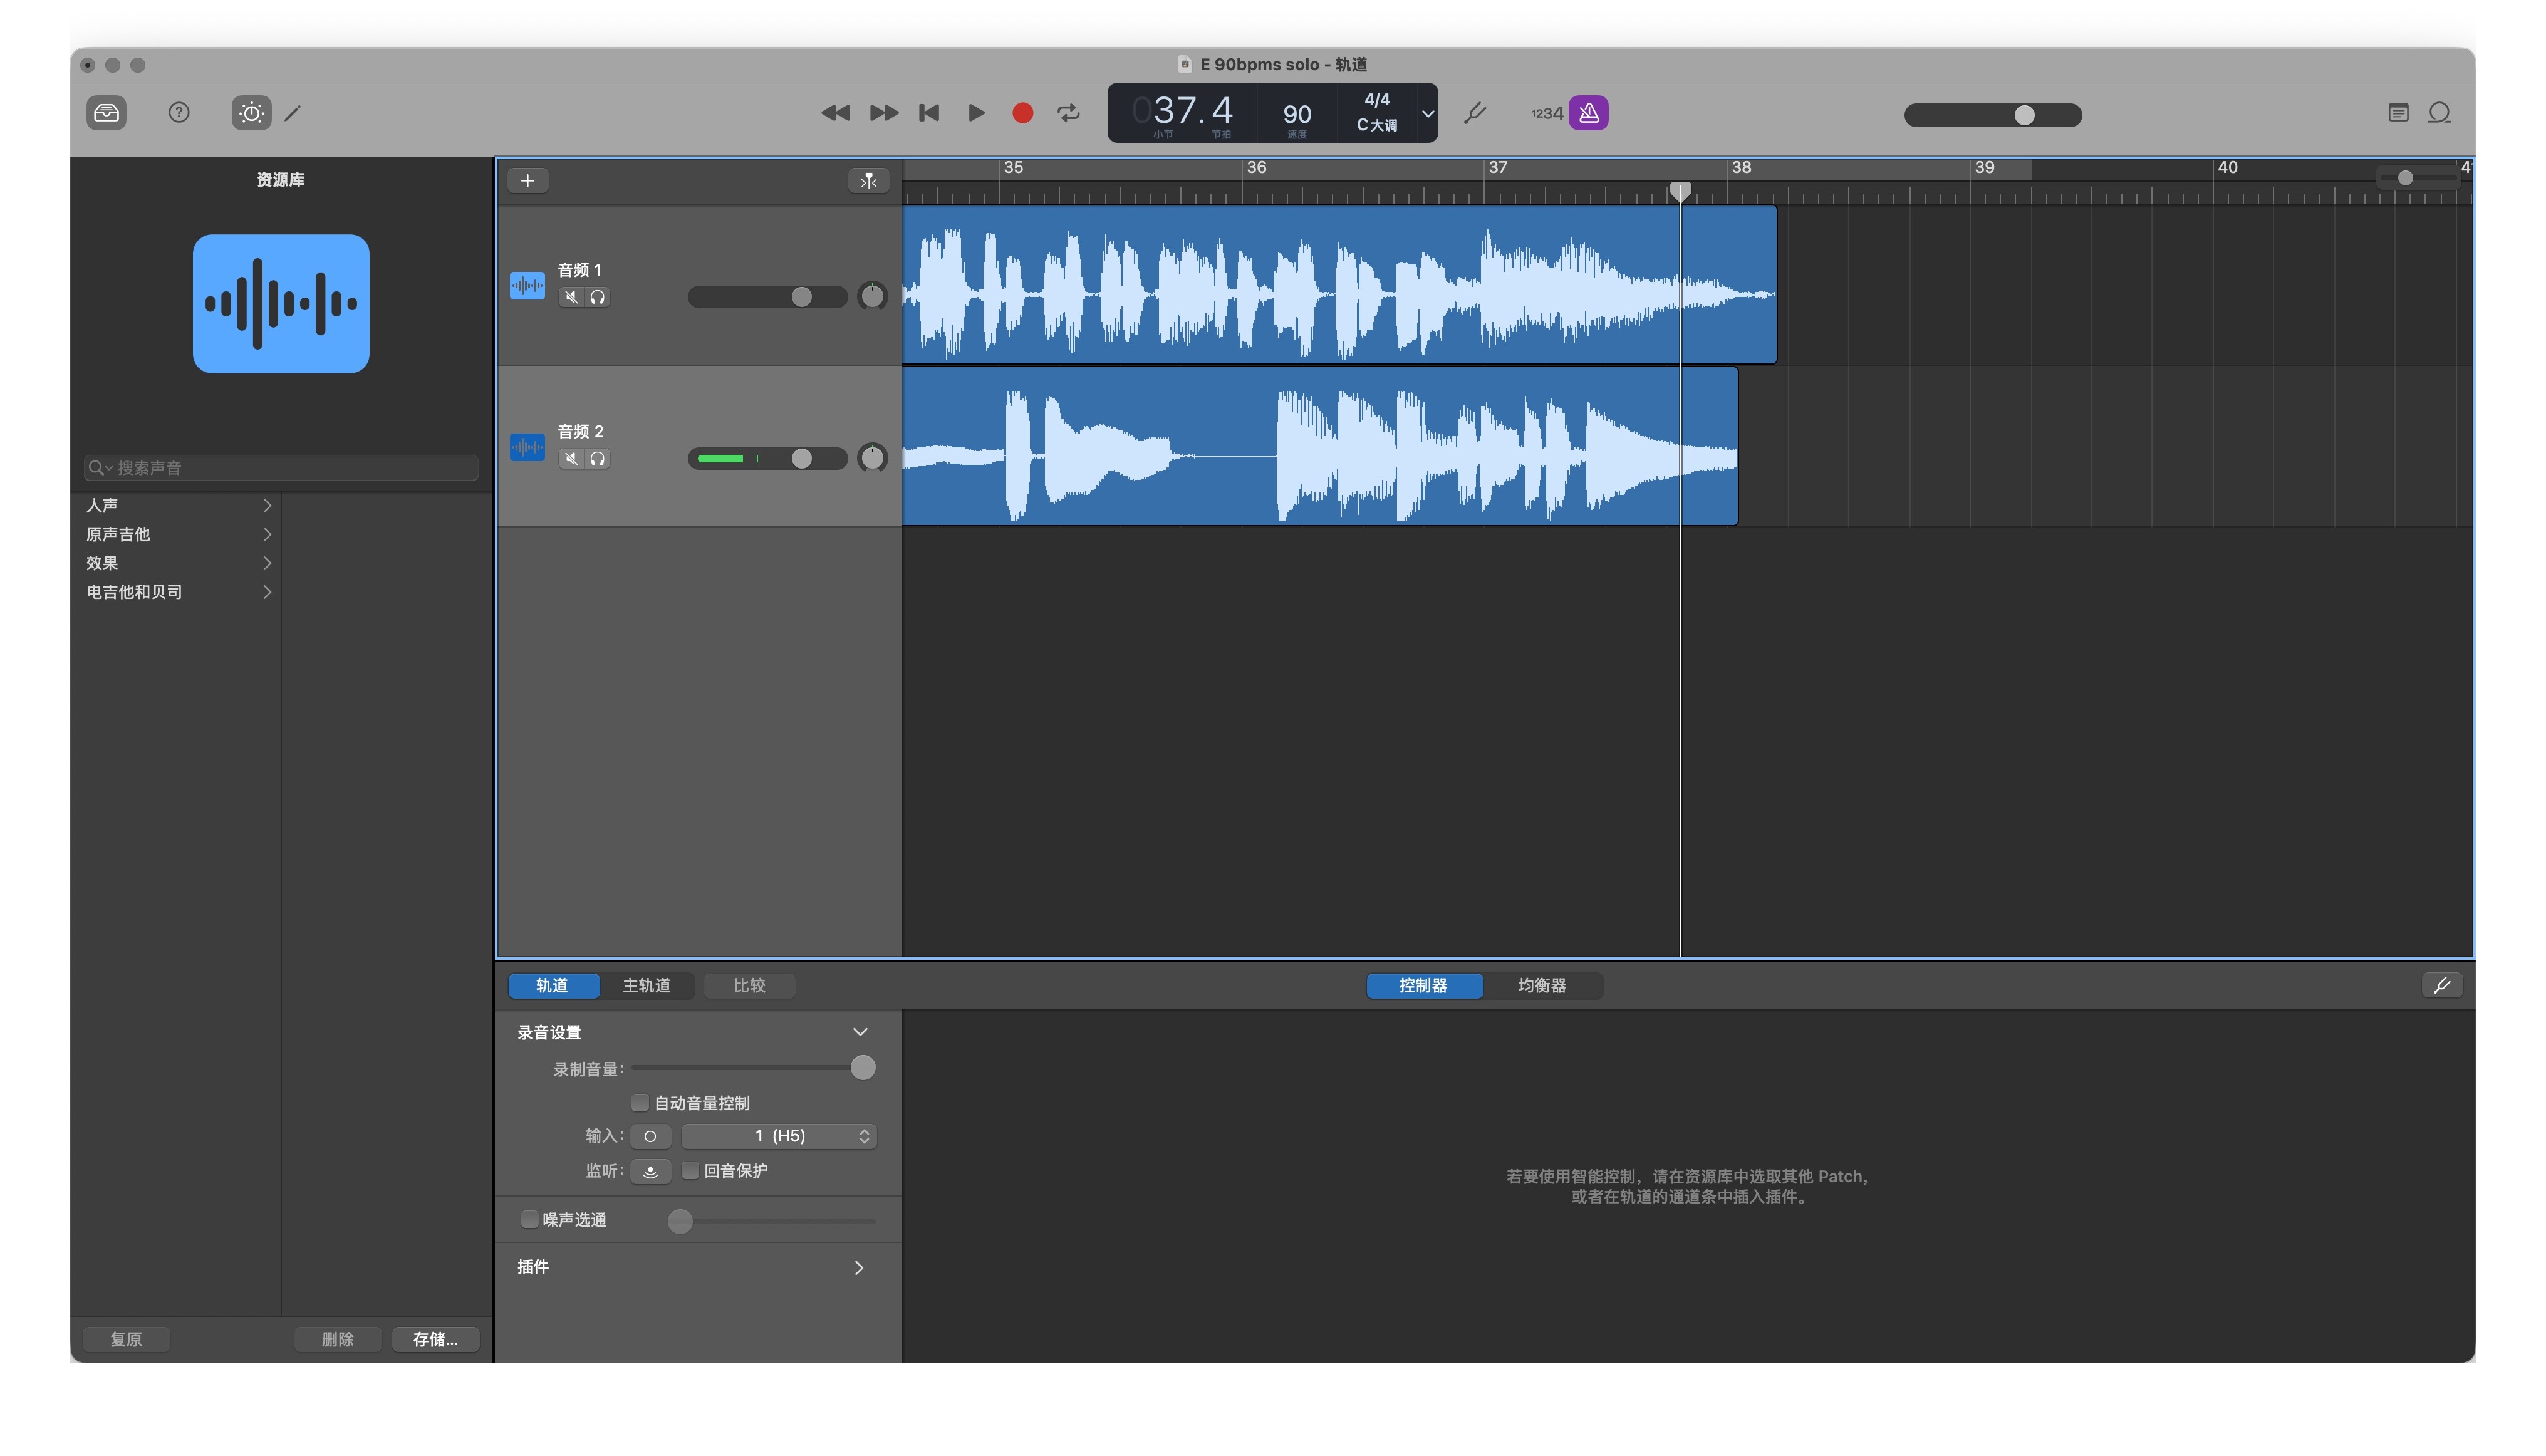
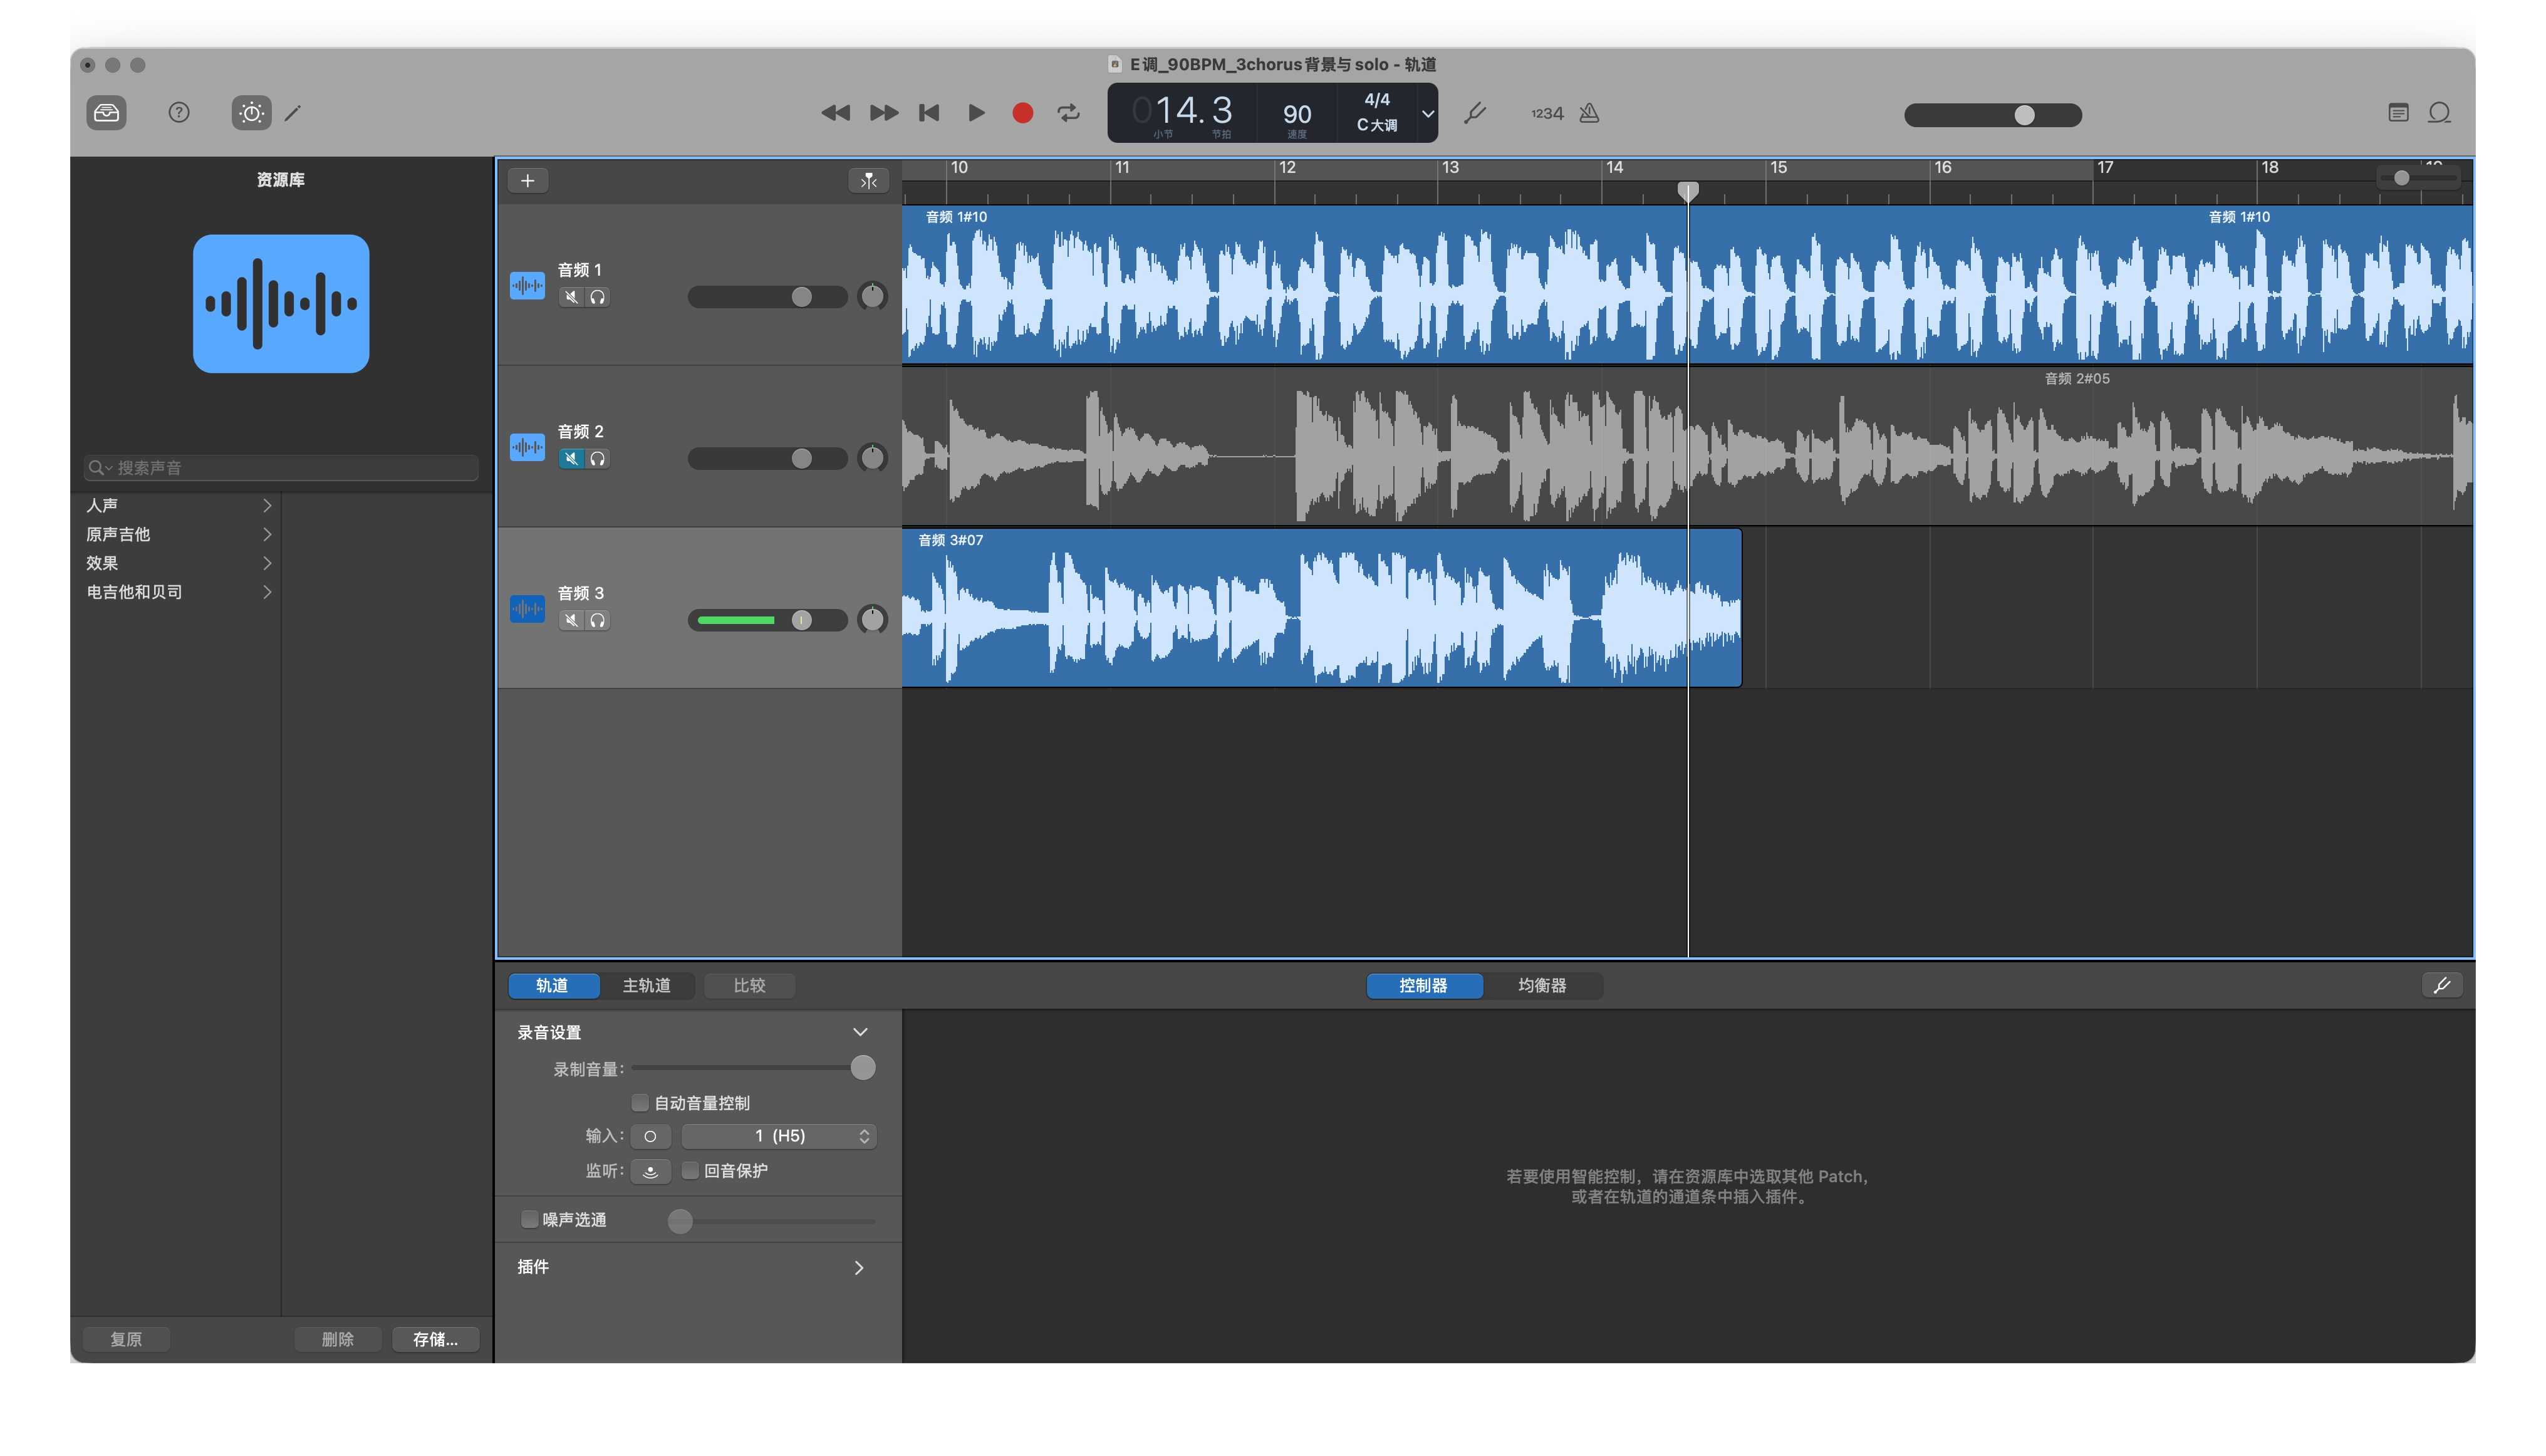
training: archive E phrasing revision

Changed region(s): [[0.1875, 0.0929, 0.9688, 0.4957], [0.4375, 0.031, 0.5625, 0.0929], [0.5938, 0.062, 0.6562, 0.0929]]

diff --git a/日志/2026-06-29_D1.md b/日志/2026-06-29_D1.md
@@ -2,7 +2,7 @@
 
 日期：2026-06-29
 
-本次时长：待回报；导出录音 `3:59.31`；新增练习成品 `0:38.69`；新增可编辑工程约 `1:41.33`
+本次时长：待回报；导出录音 `3:59.31`；新增练习成品 `0:38.69`；新增可编辑工程约 `1:41.33`；新增修正版导出 `1:39.63`
 
 唯一重点：《Before You Accuse Me》中回答句的尾音要说明所在和弦，回到节奏时 pulse 不断
 
@@ -29,6 +29,8 @@
 - 工程事实：已归档可编辑 GarageBand 工程，含 E 伴奏和两条 solo；用户说明其中一条已静音，为三句原曲回答；第二条为 E7 / A7 / B7 三个回答版本，可作为以后 solo 资源
 - 新增工程证据：已归档 [E 调 `90 BPM` 3 chorus 背景与 solo 工程](../工程/E调_90BPM_3chorus背景与solo.band)；包内 2 条 WAV，均为 `101.33s`，标记 `90.0 BPM`；用户自评为“3 chorus 的 E 调 background，然后 solo，运用了《Before You Accuse Me》里的句子”
 - 一项最影响听感的问题：用户自评部分句子听起来机械化，部分不太对节奏；尚未实际回听演奏质量，因此先记录为自评问题，不下音准或 groove 结论
+- 新增修正证据：已归档 [E 调 `90 BPM` 语气修正版](../录音/2026-06-29_W27_D1_BeforeYouAccuseMe语气修正版_E_90BPM.mp3)，MP3 `99.63s`，44.1 kHz，192 kbps，立体声；工程内新增一条 `37.33s` solo WAV，标记 `90.0 BPM`
+- 修正结果：用户自评“录制了一条修正版 `1 chorus` solo，听起来舒服多了”；尚未实际回听，因此记录为用户自评，不作为老师听感结论
 
 ## 录音
 
@@ -50,8 +52,16 @@
 
 对应工程：[E调_90BPM_3chorus背景与solo.band](../工程/E调_90BPM_3chorus背景与solo.band)
 
+文件或链接：[Before You Accuse Me 语气修正版](../录音/2026-06-29_W27_D1_BeforeYouAccuseMe语气修正版_E_90BPM.mp3)
+
+类型：练习成品
+
+时长 / 格式：`1:39.63`，MP3，44.1 kHz，192 kbps，立体声
+
+是否一次录完 / 是否剪辑：待确认；用户自评听起来舒服多了
+
 ## 下一次
 
-只改什么：不再增加新的快句；沿用已录 solo 的音高素材，只改变进入拍点、留白和尾音长度
+只改什么：保留修正版里更舒服的进入拍点、留白和尾音长度；不为了完整曲目再新增快句
 
-下一条音乐产出：E 调 `1 chorus` 节奏语气修正版；让回答句像接在人声后面的回应，而不是机械地贴在小节线上
+下一条音乐产出：《Before You Accuse Me》第一次完整曲目骨架录音：前奏 / 节奏 -> `1 chorus` solo -> 回节奏 -> ending；重点是 lead 后回到 rhythm 时 pulse 不断

diff --git a/README.md b/README.md
@@ -16,21 +16,22 @@
 - 6 月 29 日已归档《Before You Accuse Me》E7 / A7 / B7 回答变化练习成品；用户自评个人觉得还行，尚未实际回听演奏质量，是否一次录完待确认。
 - 新增可复用工程：[BeforeYouAccuseMe_E调回答变化](./工程/BeforeYouAccuseMe_E调回答变化.band)，含 E 伴奏和两条 solo，可作为后续 E 调 solo 资源。
 - 6 月 29 日已归档 [E 调 `90 BPM` 3 chorus 背景与 solo 工程](./工程/E调_90BPM_3chorus背景与solo.band)；用户自评使用了《Before You Accuse Me》句子，但部分机械、部分节奏不准；记录为“完成，尚待稳定”，未实际回听评价。
+- 6 月 29 日已归档 [《Before You Accuse Me》E 调 `90 BPM` 语气修正版](./录音/2026-06-29_W27_D1_BeforeYouAccuseMe语气修正版_E_90BPM.mp3)；用户自评 `1 chorus` solo 听起来舒服多了，尚未实际回听评价。
 - 今日入口：[2026-06-29 D1 练习日志](./日志/2026-06-29_D1.md)。
 
 本地参考：[B.B. King - How Blue Can You Get?（Live At The Regal）](./曲目/参考素材/BB_King-How_Blue_Can_You_Get-Live_At_The_Regal.mp3)
 本周主攻素材：[Eric Clapton - Before You Accuse Me `Unplugged`](./曲目/参考素材/Eric_Clapton-Before_You_Accuse_Me-Unplugged_yt_416wa6CHs04.mp3)，来源：[YouTube](https://www.youtube.com/watch?v=416wa6CHs04)
 
-> 当前唯一重点：让《Before You Accuse Me》的回答句从“小节格子”里出来，靠进入拍点、留白和尾音长度形成接话感。
+> 当前唯一重点：保留修正版里更自然的接话感，把它放回完整曲目骨架；lead 之后回到 rhythm 时 pulse 不断。
 
 ## 下一次 25–30 分钟任务
 
-1. 打开 [E 调 `90 BPM` 3 chorus 背景与 solo 工程](./工程/E调_90BPM_3chorus背景与solo.band)，先听自己最机械的一处，不改音高。
-2. 只重录 `1 chorus` 修正版：每个回答句前至少留半拍或一拍空气；每个句尾至少有一个音拉长或提前停住。
-3. 允许引用《Before You Accuse Me》句子，但每个 chorus 最多放 2 个引用；其余用节奏呼吸连接，不用新快句填满。
-4. 正式录音一遍，中途不停；如果有一处节奏不准，下一句用留白找回 pulse。
+1. 打开 [E 调 `90 BPM` 3 chorus 背景与 solo 工程](./工程/E调_90BPM_3chorus背景与solo.band)，保留语气修正版中更舒服的进入拍点和句尾处理。
+2. 录《Before You Accuse Me》第一次完整曲目骨架：前奏 / 节奏 `1 chorus` -> solo `1 chorus` -> 回节奏 `1 chorus` -> ending。
+3. solo 只用今天已经舒服的材料；每个 12 小节最多 2 个 Clapton 引用，其余用短回答和留白连接。
+4. 正式录音一遍，中途不停；solo 回节奏的第一个小节是本次唯一重点。
 
-过关只看：回答句不再都从强拍硬进；至少 2 处尾音像“说完一句话”而不是戛然而止；丢一次节奏后能在下一句找回 pulse。
+过关只看：完整结构不丢；solo 后第一个 rhythm 小节不塌；ending 有明确收束。
 
 ## 常用入口
 

diff --git a/工程/README.md b/工程/README.md
@@ -32,6 +32,6 @@
 
 - 工程：[E 调 `90 BPM` 3 chorus 背景与 solo](./E调_90BPM_3chorus背景与solo.band)
 - 用途：E 调 `90 BPM` 连续 chorus 练习；用于把《Before You Accuse Me》回答句放进完整 solo 上下文，并继续修正机械感和落拍。
-- 当前内容：GarageBand 10.4.11 工程；包内 2 条 WAV，均为 `101.33s`，标记 `90.0 BPM`。
-- 用户自评：`3 chorus` 的 E 调 background 后录 solo，运用了《Before You Accuse Me》里的句子；部分听起来机械化，部分不太对节奏。
-- 对应导出：暂无独立 MP3 / WAV 导出；当前只登记为可编辑工程。
+- 当前内容：GarageBand 10.4.11 工程；包内 2 条 `101.33s` WAV 和 1 条 `37.33s` solo WAV，均标记 `90.0 BPM`。
+- 用户自评：第一版 `3 chorus` 的 E 调 background 后录 solo，运用了《Before You Accuse Me》里的句子；部分听起来机械化，部分不太对节奏。随后完成 `1 chorus` 语气修正版，听起来舒服多了。
+- 对应导出：[E 调 `90 BPM` 语气修正版](../录音/2026-06-29_W27_D1_BeforeYouAccuseMe语气修正版_E_90BPM.mp3)。

diff --git a/日志/2026-W27.md b/日志/2026-W27.md
@@ -9,7 +9,7 @@
 ## 交付状态
 
 - [x] 《Before You Accuse Me》新句子一条及两种变化。（E7 原句、A7 尾音版本、B7 尾音版本已录；质量来自用户自评，待实际回听）
-- [x] E 调 3-chorus 和弦跟随 solo。（已归档工程；用户自评部分句子机械、部分节奏不准，完成但尚待稳定）
+- [x] E 调 3-chorus 和弦跟随 solo。（已归档工程；随后完成 `1 chorus` 语气修正版，用户自评舒服多了；尚未实际回听）
 - [ ] 主攻曲目第一次完整录音。
 - [ ] `5 分钟`节奏 / fill 不间断录音。
 
@@ -22,7 +22,8 @@
 - [Before You Accuse Me E7 / A7 / B7 回答变化](../录音/2026-06-29_W27_D1_BeforeYouAccuseMe回答变化_E_原速.mp3)：`0:38.69`，MP3；用户自评为“个人觉得还行”，尚未实际回听演奏质量，是否一次录完待确认。
 - 已归档可编辑工程 [BeforeYouAccuseMe_E调回答变化.band](../工程/BeforeYouAccuseMe_E调回答变化.band)：含 E 伴奏和两条 solo；一条静音为三句原曲回答，另一条为 E7 原回答句 -> A7 尾音版本 -> B7 尾音版本，可作为后续 solo 资源。
 - 已归档可编辑工程 [E调_90BPM_3chorus背景与solo.band](../工程/E调_90BPM_3chorus背景与solo.band)：GarageBand 10.4.11 工程，包内 2 条 WAV，均为 `101.33s`，标记 `90.0 BPM`；用户自评为“3 chorus 的 E 调 background，然后 solo，运用了《Before You Accuse Me》里的句子，但部分听起来机械、部分不太对节奏”；尚未实际回听演奏质量。
+- [Before You Accuse Me E 调 `90 BPM` 语气修正版](../录音/2026-06-29_W27_D1_BeforeYouAccuseMe语气修正版_E_90BPM.mp3)：`1:39.63`，MP3；工程内新增 `37.33s` solo WAV；用户自评“修正版 `1 chorus` solo 听起来舒服多了”；尚未实际回听演奏质量，是否一次录完待确认。
 
 ## 下一条音乐产出
 
-完成一条 `1 chorus` 节奏语气修正版：沿用已录 solo 的音高素材，不新增快句，只重排进入拍点、留白和尾音长度；目标是让《Before You Accuse Me》回答句听起来像接话，而不是像按格子贴进去。
+完成《Before You Accuse Me》第一次完整曲目骨架录音：保留修正版中更自然的进入拍点、留白和尾音长度，做“前奏 / 节奏 -> `1 chorus` solo -> 回节奏 -> ending”；不加新快句，只验证 lead 后回 rhythm 的 pulse。

diff --git a/进度/进度看板.md b/进度/进度看板.md
@@ -19,7 +19,7 @@
 | 周 | 核心交付 | 状态 | 最重要证据 | 下一步 |
 |---|---|---|---|---|
 | 1 | A 调完整表演；B.B. King 原句/移调/变化 | 已交付 | D1 基线、D3 句子任务和 A 调完整表演均已交付；完整表演一次录完、未剪辑，五轮不丢位置且 ending 符合预期（用户自评） | 进入第 2 周；待回听时只选一项修正 |
-| 2 | 《Before You Accuse Me》；E 调和弦跟随 | 进行中 | 主攻素材已下载；[前奏与 E 回答 1-3](../录音/2026-06-29_W27_D1_BeforeYouAccuseMe前奏E回答_E_原速.mp3) 已录为练习记录；[E7 / A7 / B7 回答变化](../录音/2026-06-29_W27_D1_BeforeYouAccuseMe回答变化_E_原速.mp3) 已录为练习成品；[E 调 `90 BPM` 3 chorus 工程](../工程/E调_90BPM_3chorus背景与solo.band) 已归档，用户自评部分机械、部分节奏不准，尚未实际回听 | 不加新句，先做 `1 chorus` 节奏语气修正版 |
+| 2 | 《Before You Accuse Me》；E 调和弦跟随 | 进行中 | 主攻素材已下载；[前奏与 E 回答 1-3](../录音/2026-06-29_W27_D1_BeforeYouAccuseMe前奏E回答_E_原速.mp3) 已录为练习记录；[E7 / A7 / B7 回答变化](../录音/2026-06-29_W27_D1_BeforeYouAccuseMe回答变化_E_原速.mp3) 已录为练习成品；[E 调 `90 BPM` 语气修正版](../录音/2026-06-29_W27_D1_BeforeYouAccuseMe语气修正版_E_90BPM.mp3) 已录，用户自评舒服多了，尚未实际回听 | 进入《Before You Accuse Me》第一次完整曲目骨架录音 |
 | 3 | 节奏/填句录音；曲目 1 | 未开始 |  |  |
 | 4 | 完整扒谱 chorus 1 | 未开始 |  |  |
 | 5 | 慢 Blues；曲目 2 | 未开始 |  |  |
@@ -35,7 +35,7 @@
 |---|---|---|
 | 不丢位置的连续 chorus | 5；A 调 `65 BPM`（用户自评） | 8 |
 | 全音推弦命中 | 用户自评正确，未统计 | `9/10` |
-| 可用于新语境的句子 | 2；B.B. King L01 已完成 A 调移调与个人扩展。Clapton L02 已完成 E7 原句、A7 尾音版本与 B7 尾音版本，并已进入 E 调 `90 BPM` 3 chorus solo（用户自评，待实际回听） | 8 |
+| 可用于新语境的句子 | 2；B.B. King L01 已完成 A 调移调与个人扩展。Clapton L02 已完成 E7 原句、A7 尾音版本与 B7 尾音版本，并已进入 E 调 `90 BPM` solo；`1 chorus` 语气修正版用户自评舒服多了（待实际回听） | 8 |
 | 完整扒谱 chorus | 0 | 2 |
 | 可演出的 Blues 曲目 | 0 | 3 |
 | 可随机开始的调性 | A 调已有基线 | A、E、G |
@@ -56,6 +56,7 @@
 | 2026-06-29 | 《Before You Accuse Me》前奏与 E 回答 1-3 | [录音](../录音/2026-06-29_W27_D1_BeforeYouAccuseMe前奏E回答_E_原速.mp3) | 练习记录；`3:59.31`；原曲与用户演奏混合；用户自评三个快速句子基本跟原曲一致；尚未实际回听演奏质量 | 不加新句，只把一个 E 回答改成 A7 / B7 尾音版本 |
 | 2026-06-29 | 《Before You Accuse Me》E7 / A7 / B7 回答变化 | [录音](../录音/2026-06-29_W27_D1_BeforeYouAccuseMe回答变化_E_原速.mp3) | 练习成品；`0:38.69`；用户自评个人觉得还行；尚未实际回听演奏质量；是否一次录完待确认 | 放进连续 `3 chorus`，只改进入拍点、留白或尾音 |
 | 2026-06-29 | E 调 `90 BPM` 3 chorus 背景与 solo | [工程](../工程/E调_90BPM_3chorus背景与solo.band) | 可编辑工程；包内 2 条 WAV，均为 `101.33s`；用户自评使用了《Before You Accuse Me》句子，但部分机械、部分节奏不准；尚未实际回听 | 不加新句，做 `1 chorus` 节奏语气修正版 |
+| 2026-06-29 | 《Before You Accuse Me》E 调 `90 BPM` 语气修正版 | [录音](../录音/2026-06-29_W27_D1_BeforeYouAccuseMe语气修正版_E_90BPM.mp3) | 练习成品；`1:39.63`；工程内新增 `37.33s` solo WAV；用户自评听起来舒服多了；尚未实际回听，是否一次录完待确认 | 放入第一次完整曲目骨架，验证 lead 后回 rhythm |
 
 ## 每两周复盘四项
 

diff --git a/录音/README.md b/录音/README.md
@@ -38,11 +38,13 @@ YYYY-MM-DD_W周数_D天数_内容_调性_速度.ext
 | 2026-06-22 | A 调 `65 BPM`：节奏 2 chorus + solo 3 chorus + ending | 考试录音 | `3:45.93` | [录音](./2026-06-22_W02_D1_完整表演_A_65bpm.mp3) | [W02 D1 日志](../日志/2026-06-22_D1.md) |
 | 2026-06-29 | 《Before You Accuse Me》前奏与 E 回答 1-3 | 练习记录 | `3:59.31` | [录音](./2026-06-29_W27_D1_BeforeYouAccuseMe前奏E回答_E_原速.mp3) | [W27 D1 日志](../日志/2026-06-29_D1.md) |
 | 2026-06-29 | 《Before You Accuse Me》E7 / A7 / B7 回答变化 | 练习成品 | `0:38.69` | [录音](./2026-06-29_W27_D1_BeforeYouAccuseMe回答变化_E_原速.mp3) | [W27 D1 日志](../日志/2026-06-29_D1.md) |
+| 2026-06-29 | 《Before You Accuse Me》E 调 `90 BPM` 语气修正版 | 练习成品 | `1:39.63` | [录音](./2026-06-29_W27_D1_BeforeYouAccuseMe语气修正版_E_90BPM.mp3) | [W27 D1 日志](../日志/2026-06-29_D1.md) |
 
 ## 现有工程
 
 - [A调_90BPM_shuffle.band](../工程/A调_90BPM_shuffle.band)：A 调 90 BPM；含 shuffle 伴奏、自由即兴和三音限制基线。
 - [A调_65BPM_shuffle.band](../工程/A调_65BPM_shuffle.band)：A 调 65 BPM；含 shuffle 背景和 3 条 solo，可继续增加新 solo。
 - [BeforeYouAccuseMe_E调回答变化.band](../工程/BeforeYouAccuseMe_E调回答变化.band)：E 调《Before You Accuse Me》回答变化资源；含 E 伴奏和两条 solo，用户说明一条静音为三句原曲回答，另一条为 E7 / A7 / B7 三个回答版本。
+- [E调_90BPM_3chorus背景与solo.band](../工程/E调_90BPM_3chorus背景与solo.band)：E 调 90 BPM；含 3 chorus 背景、前一版 solo 和 `1 chorus` 语气修正版 solo。
 
 工程内 WAV 使用 Git LFS。导出的练习 MP3 保存在本目录；下载的参考曲目保存在 `曲目/参考素材/`，不混入个人录音。